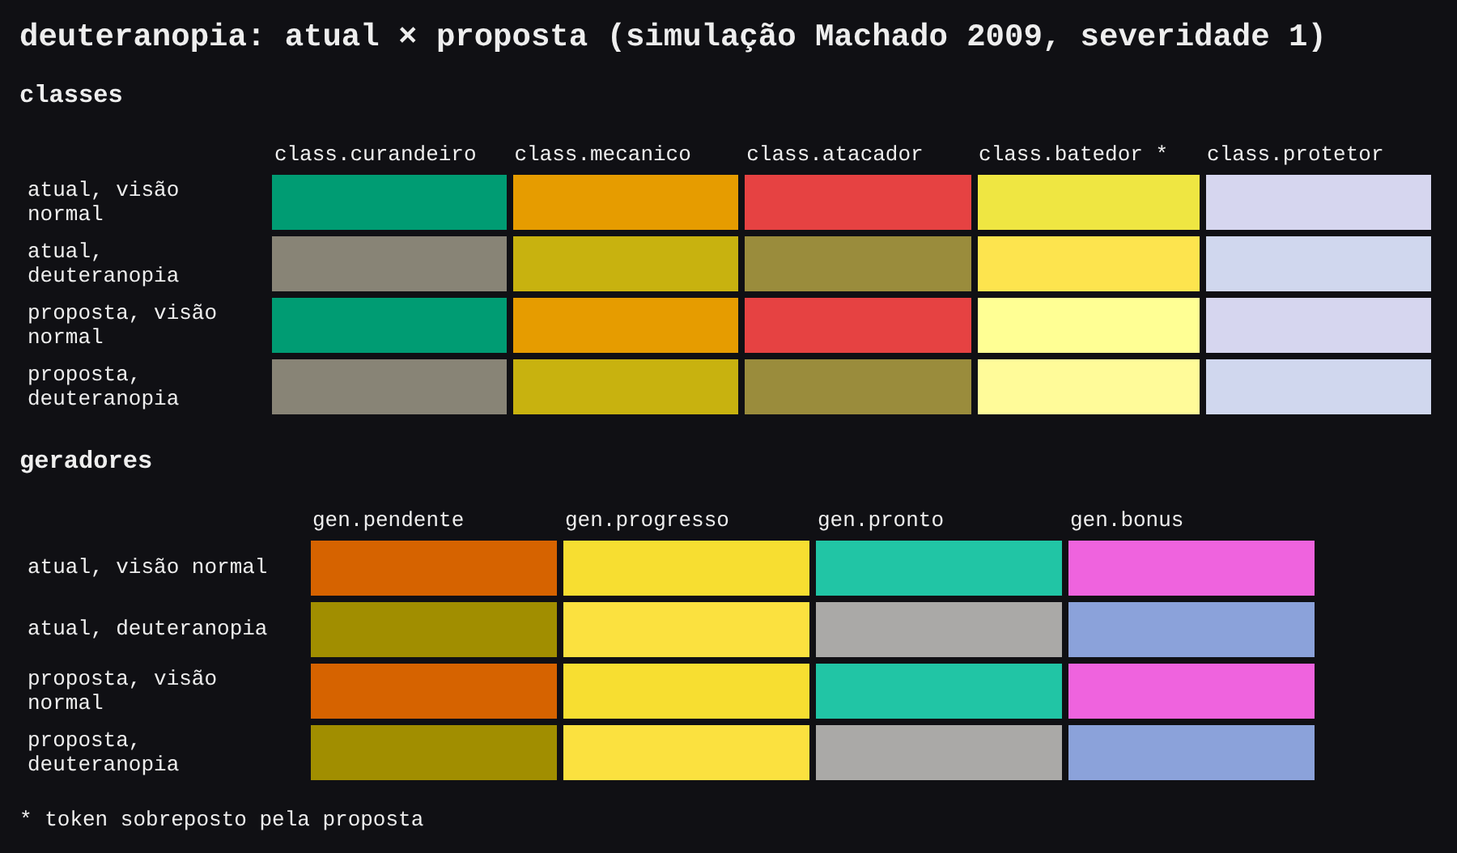
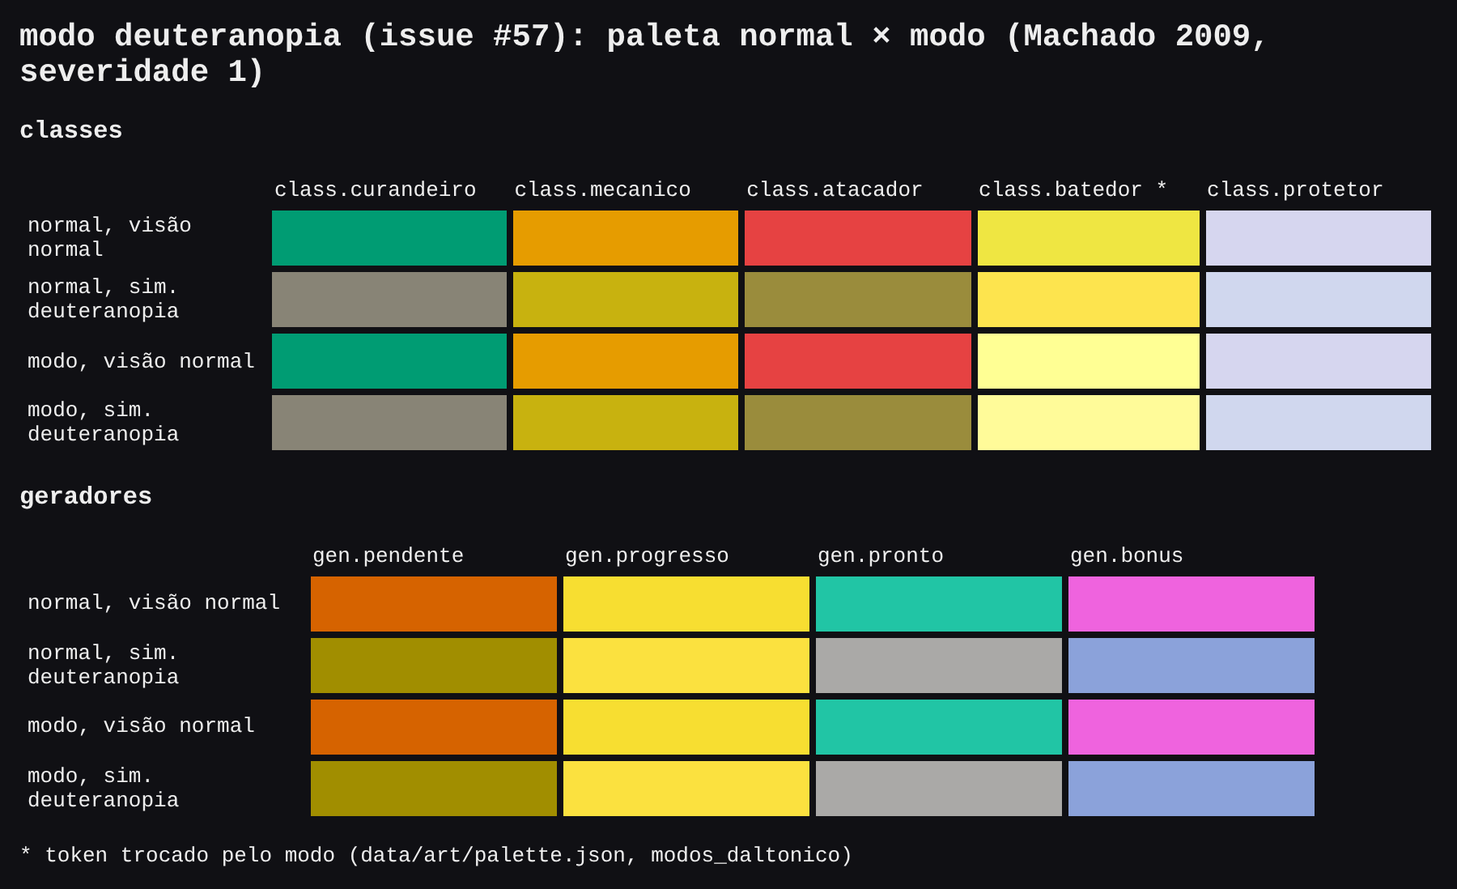
feat(arte): paletas do modo daltônico aprovadas na issue #57 (opção a)
- data/art/palette.json `modos_daltonico` (GDD v0.3 §12.4, Art Bible §5.2),
  paleta 0.5.1; a paleta normal não muda:
  - protanopia: sem troca;
  - deuteranopia: class.batedor [29,28,8] -> [31,31,18];
  - tritanopia: gen.bonus [29,12,27] -> [24,8,31].
- palette-check (normal e --mode de cada modo) verde. ΔE00: pendente x
  bônus em tritanopia 14,6 -> 20,9; pior par das classes em deuteranopia
  12,3 (Mecânico x Batedor) -> 14,3 (Mecânico x Atacador); Mecânico x
  Batedor vai a 18,5.
- Art Bible §5.2 com a tabela das 3 paletas; palette-report.md regenerado.
- Capturas em docs/art/marcos/v8: simulação regenerada (dsf 2) e capturas
  no jogo com o modo escolhido no menu de opções.
- Texto de ajuda do modo daltônico (pt-BR/en/es) sem "aguardam aprovação".
- Testes conferem as trocas aprovadas e restauram os modos no afterEach.

Closes #57

Claude-Session: https://claude.ai/code/session_01RHvzBkpAz1qJUMgUKvPxkx

diff --git a/packages/client/test/options.test.ts b/packages/client/test/options.test.ts
@@ -289,12 +289,20 @@ describe("câmera: fov e balanço", () => {
 });
 
 describe("modo daltônico: troca de tokens", () => {
-  afterEach(() => { setColorMode("normal"); PALETTE.modos_daltonico.protanopia.tokens = {}; });
-  it("as 3 entradas existem e, sem sobreposição aprovada, são iguais à paleta normal", () => {
+  const protanopia = PALETTE.modos_daltonico.protanopia.tokens;
+  afterEach(() => { setColorMode("normal"); PALETTE.modos_daltonico.protanopia.tokens = protanopia; });
+  /** paletas aprovadas na issue #57, opção (a) (GDD v0.3 §12.4; data/art/palette.json `modos_daltonico`) */
+  const APPROVED = { protanopia: {}, deuteranopia: { "class.batedor": 0xffff94 }, tritanopia: { "gen.bonus": 0xc542ff } } as const;
+  it("as 3 entradas existem; só os tokens aprovados na issue #57 mudam, os demais ficam como na paleta normal", () => {
     for (const m of ["protanopia", "deuteranopia", "tritanopia"] as const) {
       setColorMode(m);
       expect(getColorMode()).toBe(m);
-      for (const k of Object.keys(PALETTE.tokens)) { setColorMode("normal"); const n = tok(k); setColorMode(m); expect(tok(k)).toBe(n); }
+      const swaps: Record<string, number> = APPROVED[m];
+      expect(Object.keys(PALETTE.modos_daltonico[m].tokens).sort()).toEqual(Object.keys(swaps).sort());
+      for (const k of Object.keys(PALETTE.tokens)) {
+        setColorMode("normal"); const n = tok(k); setColorMode(m);
+        expect(tok(k)).toBe(swaps[k] ?? n);
+      }
     }
   });
   it("token sobreposto muda de cor só no modo; os demais ficam", () => {

diff --git a/packages/client/test/v8-apply.test.ts b/packages/client/test/v8-apply.test.ts
@@ -57,7 +57,8 @@ describe("feixe pendente com reduzir flicker (syncGenVisual)", () => {
 });
 
 describe("atlas dos personagens no modo daltônico (atlasPaints)", () => {
-  afterEach(() => { setColorMode("normal"); PALETTE.modos_daltonico.tritanopia.tokens = {}; });
+  const tritanopia = PALETTE.modos_daltonico.tritanopia.tokens;
+  afterEach(() => { setColorMode("normal"); PALETTE.modos_daltonico.tritanopia.tokens = tritanopia; });
   const size = balance.render.models.atlas;
   it("modo normal sem skin: nada a repintar; com sobreposição: o bloco do token na cor do modo", () => {
     expect(atlasPaints({ trocas: {} }, size)).toEqual([]);

diff --git a/docs/art/palette-report.md b/docs/art/palette-report.md
@@ -154,3 +154,319 @@ Menor diferença entre dois membros, em visão normal e sob cada simulação (Ma
 - grupo industrial_estado: world.industrial.tubo × gen.bonus em deuteranopia, pior pixel com ΔE00 9.7
 
 **Resultado:** todos os testes passam.
+modo daltônico protanopia: sem sobreposição (igual à paleta normal)
+# Modo daltônico: deuteranopia
+
+Quantização do passe final: 5 bits por canal (render.ps1.color_bits), dither Bayer 4×4. Portões: cor exata e média do padrão 4×4 (cor percebida); "pior pixel" é aviso.
+
+## Tokens (15 bits → hex)
+
+| Token | RGB 5 bits | Hex | Variantes após o passe final | Uso |
+| --- | --- | --- | --- | --- |
+| `ui.bg` | 2, 2, 3 | #101019 | 3 | fundo de menus |
+| `ui.panel` | 4, 4, 6 | #212131 | 2 | molduras 9-slice, painéis |
+| `ui.text` | 29, 28, 26 | #EFE6D6 | 3 | texto principal (osso) |
+| `ui.text_dim` | 19, 19, 20 | #9C9CA5 | 3 | texto secundário |
+| `ui.accent` | 31, 22, 6 | #FFB531 | 2 | foco de teclado, seleção |
+| `ui.danger` | 31, 9, 5 | #FF4A29 | 1 | alertas, vida baixa |
+| `world.fog` | 3, 4, 6 | #192131 | 3 | névoa e fundo a 30 m |
+| `world.wall` | 6, 6, 7 | #31313A | 3 | paredes (concreto frio) |
+| `world.ground` | 6, 6, 5 | #313129 | 2 | chão |
+| `class.curandeiro` | 0, 19, 14 | #009C73 | 2 | Curandeiro |
+| `class.mecanico` | 28, 19, 0 | #E69C00 | 2 | Mecânico |
+| `class.atacador` | 28, 8, 8 | #E64242 | 2 | Atacador |
+| `class.batedor` | 31, 31, 18 | #FFFF94 | 1 | Batedor (fase 4) |
+| `class.protetor` | 26, 26, 29 | #D6D6EF | 2 | Protetor (fase 4) |
+| `gen.pendente` | 26, 12, 0 | #D66300 | 2 | gerador não iniciado |
+| `gen.progresso` | 30, 27, 6 | #F7DE31 | 2 | gerador em progresso |
+| `gen.pronto` | 4, 24, 20 | #21C5A5 | 3 | gerador pronto |
+| `gen.bonus` | 29, 12, 27 | #EF63DE | 2 | gerador bônus |
+| `hunter.olhos` | 31, 4, 2 | #FF2110 | 2 | olhos emissivos e telegraph (GDD §10.4) |
+| `hunter.espectro` | 22, 23, 25 | #B5BDCE | 2 | Espectro (lançamento) |
+| `hunter.carcereiro` | 20, 11, 4 | #A55A21 | 3 | O Carcereiro |
+| `hunter.lamento` | 18, 12, 28 | #9463E6 | 3 | O Lamento |
+| `fx.ameaca` | 31, 9, 5 | #FF4A29 | 1 | seta de ameaça na borda (GDD §12.1) |
+| `fx.preso` | 31, 22, 6 | #FFB531 | 2 | marcador de aliado preso |
+| `char.pele` | 27, 22, 18 | #DEB594 | 1 | pele (rosto e mãos) dos sobreviventes |
+| `char.calca` | 8, 8, 10 | #424252 | 2 | calça e quadril (secundária: a skin troca) |
+| `char.sapato` | 3, 3, 4 | #191921 | 2 | sapatos (secundária: a skin troca) |
+| `char.metal` | 19, 19, 21 | #9C9CAD | 3 | chave inglesa, bossa do escudo |
+| `char.madeira` | 22, 16, 9 | #B5844A | 2 | haste do cajado do Curandeiro |
+| `char.lamina` | 24, 25, 27 | #C5CEDE | 3 | lâmina da espada, asas do caduceu |
+| `char.couro` | 8, 5, 3 | #422919 | 2 | guarda da espada |
+| `char.cachecol` | 8, 16, 28 | #4284E6 | 3 | cachecol do Batedor (não pode ser ui.accent: é a cor de fx.preso) |
+| `char.lanterna` | 20, 27, 31 | #A5DEFF | 2 | lanterna do capacete do Mecânico, emissiva (não pode ser ui.accent) |
+| `hunter.olhos_preparo` | 31, 29, 22 | #FFEFB5 | 2 | olhos e lampejo do caçador durante o preparo de golpe e dash (Art Bible §1.5, §4) |
+| `hunter.farrapos` | 5, 5, 7 | #29293A | 2 | farrapos e pés do Espectro |
+| `world.gerador` | 10, 10, 12 | #525263 | 3 | corpo do gerador |
+| `world.gerador_bonus` | 13, 11, 4 | #6B5A21 | 2 | corpo do gerador bônus |
+| `world.portao` | 8, 2, 2 | #421010 | 2 | portão fechado |
+| `world.gaiola` | 15, 15, 15 | #7B7B7B | 2 | grade da gaiola |
+| `fx.armadilha` | 19, 0, 0 | #9C0000 | 2 | armadilha do caçador no chão |
+| `light.ambiente` | 8, 8, 11 | #42425A | 2 | cor da luz ambiente (protótipo 0x404058) |
+| `light.jogador` | 31, 27, 19 | #FFDE9C | 2 | cor da luz que segue o jogador (protótipo 0xffe0a0) |
+| `skin.abo.a` | 16, 6, 0 | #843100 | 3 | skin Abóbora: calça |
+| `skin.abo.b` | 4, 9, 3 | #214A19 | 2 | skin Abóbora: sapatos e acessório |
+| `skin.som.a` | 3, 3, 4 | #191921 | 2 | skin Sombra: calça |
+| `skin.som.b` | 11, 11, 13 | #5A5A6B | 2 | skin Sombra: sapatos e acessório |
+| `skin.neo.a` | 2, 13, 18 | #106B94 | 2 | skin Neon Ciano: calça |
+| `skin.neo.b` | 14, 29, 31 | #73EFFF | 2 | skin Neon Ciano: sapatos e acessório |
+| `skin.car.a` | 13, 1, 4 | #6B0821 | 1 | skin Carmesim: calça |
+| `skin.car.b` | 6, 0, 2 | #310010 | 2 | skin Carmesim: sapatos e acessório |
+| `skin.our.a` | 11, 8, 2 | #5A4210 | 2 | skin Ouro: calça |
+| `skin.our.b` | 23, 21, 15 | #BDAD7B | 3 | skin Ouro: sapatos e acessório |
+| `skin.fan.a` | 18, 17, 24 | #948CC5 | 2 | skin Fantasma: calça |
+| `skin.fan.b` | 24, 22, 31 | #C5B5FF | 2 | skin Fantasma: sapatos e acessório |
+| `world.industrial.parede` | 5, 6, 8 | #293142 | 2 | D-13/D-15 (mockup A2b, secundária): chapa de aço das paredes no preset industrial do Pátio |
+| `world.industrial.chapa` | 11, 12, 14 | #5A6373 | 3 | D-13/D-15 (secundária): rebites e borda iluminada das chapas |
+| `world.industrial.junta` | 2, 2, 3 | #101019 | 3 | D-13/D-15 (secundária): juntas entre chapas e lajes, sujeira |
+| `world.industrial.chao` | 7, 7, 7 | #3A3A3A | 2 | D-13/D-15 (secundária): laje de concreto do chão |
+| `world.industrial.faixa` | 16, 9, 6 | #844A31 | 3 | D-13/D-15 (secundária): faixa de segurança âmbar na base das paredes e cor da luz assada âmbar |
+| `world.industrial.luz_fria` | 7, 9, 13 | #3A4A6B | 2 | D-13/D-15 (secundária): luz ambiente fria de fábrica |
+| `world.industrial.tubo` | 21, 25, 28 | #ADCEE6 | 3 | D-13/D-15 (secundária): luminária fluorescente (emissiva) no topo dos muros |
+
+## Contraste de texto (WCAG 2.2 1.4.3) (mínimo 4.5:1)
+
+| Elemento | Fundo | exata | média 4×4 | pior pixel | Resultado |
+| --- | --- | --- | --- | --- | --- |
+| `ui.text` | `ui.bg` | 15.28:1 | 15.28:1 | 14.39:1 | passa |
+| `ui.text` | `ui.panel` | 12.78:1 | 12.76:1 | 12.13:1 | passa |
+| `ui.text_dim` | `ui.bg` | 6.95:1 | 6.93:1 | 6.29:1 | passa |
+| `ui.text_dim` | `ui.panel` | 5.81:1 | 5.79:1 | 5.31:1 | passa |
+| `ui.accent` | `ui.panel` | 8.98:1 | 8.98:1 | 8.97:1 | passa |
+| `ui.danger` | `ui.panel` | 4.72:1 | 4.72:1 | 4.72:1 | passa |
+
+## Contraste de elementos gráficos (WCAG 2.2 1.4.11) (mínimo 3:1)
+
+| Elemento | Fundo | exata | média 4×4 | pior pixel | Resultado |
+| --- | --- | --- | --- | --- | --- |
+| `class.curandeiro` | `world.fog` | 4.61:1 | 4.58:1 | 4.13:1 | passa |
+| `class.mecanico` | `world.fog` | 7.00:1 | 6.96:1 | 6.29:1 | passa |
+| `class.atacador` | `world.fog` | 4.01:1 | 3.99:1 | 3.74:1 | passa |
+| `class.batedor` | `world.fog` | 15.33:1 | 15.33:1 | 15.06:1 | passa |
+| `class.protetor` | `world.fog` | 11.30:1 | 11.30:1 | 11.10:1 | passa |
+| `class.curandeiro` | `world.wall` | 3.68:1 | 3.68:1 | 3.33:1 | passa |
+| `class.mecanico` | `world.wall` | 5.59:1 | 5.59:1 | 5.06:1 | passa |
+| `class.atacador` | `world.wall` | 3.20:1 | 3.21:1 | 3.01:1 | passa |
+| `class.batedor` | `world.wall` | 12.25:1 | 12.32:1 | 12.12:1 | passa |
+| `class.protetor` | `world.wall` | 9.03:1 | 9.08:1 | 8.93:1 | passa |
+| `gen.pendente` | `world.fog` | 4.33:1 | 4.34:1 | 4.25:1 | passa |
+| `gen.progresso` | `world.fog` | 11.85:1 | 11.85:1 | 11.64:1 | passa |
+| `gen.pronto` | `world.fog` | 7.36:1 | 7.33:1 | 6.70:1 | passa |
+| `gen.bonus` | `world.fog` | 5.76:1 | 5.79:1 | 5.66:1 | passa |
+| `hunter.olhos` | `world.fog` | 4.20:1 | 4.20:1 | 4.13:1 | passa |
+| `hunter.espectro` | `world.fog` | 8.54:1 | 8.54:1 | 8.39:1 | passa |
+| `hunter.carcereiro` | `world.fog` | 3.13:1 | 3.13:1 | 2.89:1 | passa (aviso) |
+| `hunter.lamento` | `world.fog` | 3.98:1 | 3.99:1 | 3.84:1 | passa |
+| `fx.ameaca` | `world.fog` | 4.81:1 | 4.80:1 | 4.72:1 | passa |
+| `fx.preso` | `world.fog` | 9.14:1 | 9.13:1 | 8.97:1 | passa |
+| `char.madeira` | `world.fog` | 4.88:1 | 4.90:1 | 4.80:1 | passa |
+| `char.lamina` | `world.fog` | 10.17:1 | 10.20:1 | 9.84:1 | passa |
+| `char.cachecol` | `world.fog` | 4.35:1 | 4.37:1 | 4.21:1 | passa |
+| `char.lanterna` | `world.fog` | 11.12:1 | 11.12:1 | 10.92:1 | passa |
+| `hunter.olhos_preparo` | `world.fog` | 14.02:1 | 14.05:1 | 13.77:1 | passa |
+| `hunter.olhos_preparo` | `world.wall` | 11.20:1 | 11.30:1 | 11.08:1 | passa |
+| `class.curandeiro` | `world.industrial.parede` | 3.72:1 | 3.72:1 | 3.40:1 | passa |
+| `class.mecanico` | `world.industrial.parede` | 5.66:1 | 5.65:1 | 5.17:1 | passa |
+| `class.atacador` | `world.industrial.parede` | 3.24:1 | 3.24:1 | 3.08:1 | passa |
+| `class.batedor` | `world.industrial.parede` | 12.39:1 | 12.45:1 | 12.39:1 | passa |
+| `class.protetor` | `world.industrial.parede` | 9.13:1 | 9.18:1 | 9.13:1 | passa |
+| `hunter.olhos_preparo` | `world.industrial.parede` | 11.33:1 | 11.42:1 | 11.33:1 | passa |
+
+## Mudança de estado por brilho (Art Bible §1.5 e §4) (mínimo 3:1)
+
+| Elemento | Fundo | exata | média 4×4 | pior pixel | Resultado |
+| --- | --- | --- | --- | --- | --- |
+| `hunter.olhos_preparo` | `hunter.olhos` | 3.33:1 | 3.35:1 | 3.33:1 | passa |
+
+## Distinção entre cores do mesmo grupo (CIEDE2000, mínimo 12)
+
+Menor diferença entre dois membros, em visão normal e sob cada simulação (Machado 2009, severidade 1,0); cada célula: exata / média 4×4 / pior pixel.
+
+| Grupo | Normal | Protanopia | Deuteranopia | Tritanopia | Par mais próximo (pior caso) | Resultado |
+| --- | --- | --- | --- | --- | --- | --- |
+| classes | 28.3 / 28.4 / 28.3 | 15.8 / 15.8 / 14.1 | 14.3 / 14.3 / 12.3 | 12.5 / 12.6 / 12.5 | batedor × protetor (tritanopia, exata) | passa |
+| geradores | 37.1 / 37.2 / 36.8 | 24.8 / 25.1 / 24.8 | 20.1 / 19.4 / 14.7 | 14.6 / 14.6 / 13.4 | pendente × bonus (tritanopia, média 4×4) | passa |
+| cacadores | 26.4 / 26.3 / 24.4 | 27.5 / 27.3 / 24.4 | 26.7 / 26.5 / 23.8 | 24.8 / 24.7 / 22.1 | espectro × lamento (tritanopia, média 4×4) | passa |
+
+## Cores que não podem ser confundidas com estado nem com cor dominante (CIEDE2000, mínimo 12)
+
+Menor diferença entre dois membros, em visão normal e sob cada simulação (Machado 2009, severidade 1,0); cada célula: exata / média 4×4 / pior pixel.
+
+| Grupo | Normal | Protanopia | Deuteranopia | Tritanopia | Par mais próximo (pior caso) | Resultado |
+| --- | --- | --- | --- | --- | --- | --- |
+| acessorios | 36.3 / 36.4 / 36.1 | 34.1 / 34.1 / 33.8 | 37.4 / 37.5 / 36.9 | 33.1 / 32.8 / 28.6 | char.lanterna × olhos_preparo (tritanopia, média 4×4) | passa |
+| skins_estado | 15.9 / 15.8 / 14.4 | 12.7 / 12.8 / 12.5 | 12.9 / 12.8 / 11.5 | 12.7 / 12.8 / 12.3 | skin.our.b × fx.preso (tritanopia, exata) | passa (aviso) |
+| skins_classe | 13.3 / 13.2 / 11.3 | — | — | — | skin.fan.b × protetor (normal, média 4×4) | passa (aviso) |
+| industrial_estado | 21.4 / 21.3 / 20.3 | 12.3 / 12.2 / 10.5 | 12.2 / 12.3 / 9.7 | 13.2 / 13.3 / 12.9 | world.industrial.faixa × olhos (protanopia, média 4×4) | passa (aviso) |
+
+## Atlas dos personagens
+
+61 tokens de 64 blocos (render.models.atlas = 64 px, blocos de 8 px).
+
+**Avisos (pior pixel, informativo):** 4
+
+- contraste gráfico hunter.carcereiro sobre world.fog (pior pixel): 2.89
+- grupo skins_estado: skin.our.b × fx.ameaca em deuteranopia, pior pixel com ΔE00 11.5
+- grupo skins_classe: skin.fan.b × class.protetor em normal, pior pixel com ΔE00 11.3
+- grupo industrial_estado: world.industrial.tubo × gen.bonus em deuteranopia, pior pixel com ΔE00 9.7
+
+**Resultado:** todos os testes passam.
+# Modo daltônico: tritanopia
+
+Quantização do passe final: 5 bits por canal (render.ps1.color_bits), dither Bayer 4×4. Portões: cor exata e média do padrão 4×4 (cor percebida); "pior pixel" é aviso.
+
+## Tokens (15 bits → hex)
+
+| Token | RGB 5 bits | Hex | Variantes após o passe final | Uso |
+| --- | --- | --- | --- | --- |
+| `ui.bg` | 2, 2, 3 | #101019 | 3 | fundo de menus |
+| `ui.panel` | 4, 4, 6 | #212131 | 2 | molduras 9-slice, painéis |
+| `ui.text` | 29, 28, 26 | #EFE6D6 | 3 | texto principal (osso) |
+| `ui.text_dim` | 19, 19, 20 | #9C9CA5 | 3 | texto secundário |
+| `ui.accent` | 31, 22, 6 | #FFB531 | 2 | foco de teclado, seleção |
+| `ui.danger` | 31, 9, 5 | #FF4A29 | 1 | alertas, vida baixa |
+| `world.fog` | 3, 4, 6 | #192131 | 3 | névoa e fundo a 30 m |
+| `world.wall` | 6, 6, 7 | #31313A | 3 | paredes (concreto frio) |
+| `world.ground` | 6, 6, 5 | #313129 | 2 | chão |
+| `class.curandeiro` | 0, 19, 14 | #009C73 | 2 | Curandeiro |
+| `class.mecanico` | 28, 19, 0 | #E69C00 | 2 | Mecânico |
+| `class.atacador` | 28, 8, 8 | #E64242 | 2 | Atacador |
+| `class.batedor` | 29, 28, 8 | #EFE642 | 3 | Batedor (fase 4) |
+| `class.protetor` | 26, 26, 29 | #D6D6EF | 2 | Protetor (fase 4) |
+| `gen.pendente` | 26, 12, 0 | #D66300 | 2 | gerador não iniciado |
+| `gen.progresso` | 30, 27, 6 | #F7DE31 | 2 | gerador em progresso |
+| `gen.pronto` | 4, 24, 20 | #21C5A5 | 3 | gerador pronto |
+| `gen.bonus` | 24, 8, 31 | #C542FF | 2 | gerador bônus |
+| `hunter.olhos` | 31, 4, 2 | #FF2110 | 2 | olhos emissivos e telegraph (GDD §10.4) |
+| `hunter.espectro` | 22, 23, 25 | #B5BDCE | 2 | Espectro (lançamento) |
+| `hunter.carcereiro` | 20, 11, 4 | #A55A21 | 3 | O Carcereiro |
+| `hunter.lamento` | 18, 12, 28 | #9463E6 | 3 | O Lamento |
+| `fx.ameaca` | 31, 9, 5 | #FF4A29 | 1 | seta de ameaça na borda (GDD §12.1) |
+| `fx.preso` | 31, 22, 6 | #FFB531 | 2 | marcador de aliado preso |
+| `char.pele` | 27, 22, 18 | #DEB594 | 1 | pele (rosto e mãos) dos sobreviventes |
+| `char.calca` | 8, 8, 10 | #424252 | 2 | calça e quadril (secundária: a skin troca) |
+| `char.sapato` | 3, 3, 4 | #191921 | 2 | sapatos (secundária: a skin troca) |
+| `char.metal` | 19, 19, 21 | #9C9CAD | 3 | chave inglesa, bossa do escudo |
+| `char.madeira` | 22, 16, 9 | #B5844A | 2 | haste do cajado do Curandeiro |
+| `char.lamina` | 24, 25, 27 | #C5CEDE | 3 | lâmina da espada, asas do caduceu |
+| `char.couro` | 8, 5, 3 | #422919 | 2 | guarda da espada |
+| `char.cachecol` | 8, 16, 28 | #4284E6 | 3 | cachecol do Batedor (não pode ser ui.accent: é a cor de fx.preso) |
+| `char.lanterna` | 20, 27, 31 | #A5DEFF | 2 | lanterna do capacete do Mecânico, emissiva (não pode ser ui.accent) |
+| `hunter.olhos_preparo` | 31, 29, 22 | #FFEFB5 | 2 | olhos e lampejo do caçador durante o preparo de golpe e dash (Art Bible §1.5, §4) |
+| `hunter.farrapos` | 5, 5, 7 | #29293A | 2 | farrapos e pés do Espectro |
+| `world.gerador` | 10, 10, 12 | #525263 | 3 | corpo do gerador |
+| `world.gerador_bonus` | 13, 11, 4 | #6B5A21 | 2 | corpo do gerador bônus |
+| `world.portao` | 8, 2, 2 | #421010 | 2 | portão fechado |
+| `world.gaiola` | 15, 15, 15 | #7B7B7B | 2 | grade da gaiola |
+| `fx.armadilha` | 19, 0, 0 | #9C0000 | 2 | armadilha do caçador no chão |
+| `light.ambiente` | 8, 8, 11 | #42425A | 2 | cor da luz ambiente (protótipo 0x404058) |
+| `light.jogador` | 31, 27, 19 | #FFDE9C | 2 | cor da luz que segue o jogador (protótipo 0xffe0a0) |
+| `skin.abo.a` | 16, 6, 0 | #843100 | 3 | skin Abóbora: calça |
+| `skin.abo.b` | 4, 9, 3 | #214A19 | 2 | skin Abóbora: sapatos e acessório |
+| `skin.som.a` | 3, 3, 4 | #191921 | 2 | skin Sombra: calça |
+| `skin.som.b` | 11, 11, 13 | #5A5A6B | 2 | skin Sombra: sapatos e acessório |
+| `skin.neo.a` | 2, 13, 18 | #106B94 | 2 | skin Neon Ciano: calça |
+| `skin.neo.b` | 14, 29, 31 | #73EFFF | 2 | skin Neon Ciano: sapatos e acessório |
+| `skin.car.a` | 13, 1, 4 | #6B0821 | 1 | skin Carmesim: calça |
+| `skin.car.b` | 6, 0, 2 | #310010 | 2 | skin Carmesim: sapatos e acessório |
+| `skin.our.a` | 11, 8, 2 | #5A4210 | 2 | skin Ouro: calça |
+| `skin.our.b` | 23, 21, 15 | #BDAD7B | 3 | skin Ouro: sapatos e acessório |
+| `skin.fan.a` | 18, 17, 24 | #948CC5 | 2 | skin Fantasma: calça |
+| `skin.fan.b` | 24, 22, 31 | #C5B5FF | 2 | skin Fantasma: sapatos e acessório |
+| `world.industrial.parede` | 5, 6, 8 | #293142 | 2 | D-13/D-15 (mockup A2b, secundária): chapa de aço das paredes no preset industrial do Pátio |
+| `world.industrial.chapa` | 11, 12, 14 | #5A6373 | 3 | D-13/D-15 (secundária): rebites e borda iluminada das chapas |
+| `world.industrial.junta` | 2, 2, 3 | #101019 | 3 | D-13/D-15 (secundária): juntas entre chapas e lajes, sujeira |
+| `world.industrial.chao` | 7, 7, 7 | #3A3A3A | 2 | D-13/D-15 (secundária): laje de concreto do chão |
+| `world.industrial.faixa` | 16, 9, 6 | #844A31 | 3 | D-13/D-15 (secundária): faixa de segurança âmbar na base das paredes e cor da luz assada âmbar |
+| `world.industrial.luz_fria` | 7, 9, 13 | #3A4A6B | 2 | D-13/D-15 (secundária): luz ambiente fria de fábrica |
+| `world.industrial.tubo` | 21, 25, 28 | #ADCEE6 | 3 | D-13/D-15 (secundária): luminária fluorescente (emissiva) no topo dos muros |
+
+## Contraste de texto (WCAG 2.2 1.4.3) (mínimo 4.5:1)
+
+| Elemento | Fundo | exata | média 4×4 | pior pixel | Resultado |
+| --- | --- | --- | --- | --- | --- |
+| `ui.text` | `ui.bg` | 15.28:1 | 15.28:1 | 14.39:1 | passa |
+| `ui.text` | `ui.panel` | 12.78:1 | 12.76:1 | 12.13:1 | passa |
+| `ui.text_dim` | `ui.bg` | 6.95:1 | 6.93:1 | 6.29:1 | passa |
+| `ui.text_dim` | `ui.panel` | 5.81:1 | 5.79:1 | 5.31:1 | passa |
+| `ui.accent` | `ui.panel` | 8.98:1 | 8.98:1 | 8.97:1 | passa |
+| `ui.danger` | `ui.panel` | 4.72:1 | 4.72:1 | 4.72:1 | passa |
+
+## Contraste de elementos gráficos (WCAG 2.2 1.4.11) (mínimo 3:1)
+
+| Elemento | Fundo | exata | média 4×4 | pior pixel | Resultado |
+| --- | --- | --- | --- | --- | --- |
+| `class.curandeiro` | `world.fog` | 4.61:1 | 4.58:1 | 4.13:1 | passa |
+| `class.mecanico` | `world.fog` | 7.00:1 | 6.96:1 | 6.29:1 | passa |
+| `class.atacador` | `world.fog` | 4.01:1 | 3.99:1 | 3.74:1 | passa |
+| `class.batedor` | `world.fog` | 12.33:1 | 12.29:1 | 11.46:1 | passa |
+| `class.protetor` | `world.fog` | 11.30:1 | 11.30:1 | 11.10:1 | passa |
+| `class.curandeiro` | `world.wall` | 3.68:1 | 3.68:1 | 3.33:1 | passa |
+| `class.mecanico` | `world.wall` | 5.59:1 | 5.59:1 | 5.06:1 | passa |
+| `class.atacador` | `world.wall` | 3.20:1 | 3.21:1 | 3.01:1 | passa |
+| `class.batedor` | `world.wall` | 9.85:1 | 9.88:1 | 9.22:1 | passa |
+| `class.protetor` | `world.wall` | 9.03:1 | 9.08:1 | 8.93:1 | passa |
+| `gen.pendente` | `world.fog` | 4.33:1 | 4.34:1 | 4.25:1 | passa |
+| `gen.progresso` | `world.fog` | 11.85:1 | 11.85:1 | 11.64:1 | passa |
+| `gen.pronto` | `world.fog` | 7.36:1 | 7.33:1 | 6.70:1 | passa |
+| `gen.bonus` | `world.fog` | 4.29:1 | 4.28:1 | 4.06:1 | passa |
+| `hunter.olhos` | `world.fog` | 4.20:1 | 4.20:1 | 4.13:1 | passa |
+| `hunter.espectro` | `world.fog` | 8.54:1 | 8.54:1 | 8.39:1 | passa |
+| `hunter.carcereiro` | `world.fog` | 3.13:1 | 3.13:1 | 2.89:1 | passa (aviso) |
+| `hunter.lamento` | `world.fog` | 3.98:1 | 3.99:1 | 3.84:1 | passa |
+| `fx.ameaca` | `world.fog` | 4.81:1 | 4.80:1 | 4.72:1 | passa |
+| `fx.preso` | `world.fog` | 9.14:1 | 9.13:1 | 8.97:1 | passa |
+| `char.madeira` | `world.fog` | 4.88:1 | 4.90:1 | 4.80:1 | passa |
+| `char.lamina` | `world.fog` | 10.17:1 | 10.20:1 | 9.84:1 | passa |
+| `char.cachecol` | `world.fog` | 4.35:1 | 4.37:1 | 4.21:1 | passa |
+| `char.lanterna` | `world.fog` | 11.12:1 | 11.12:1 | 10.92:1 | passa |
+| `hunter.olhos_preparo` | `world.fog` | 14.02:1 | 14.05:1 | 13.77:1 | passa |
+| `hunter.olhos_preparo` | `world.wall` | 11.20:1 | 11.30:1 | 11.08:1 | passa |
+| `class.curandeiro` | `world.industrial.parede` | 3.72:1 | 3.72:1 | 3.40:1 | passa |
+| `class.mecanico` | `world.industrial.parede` | 5.66:1 | 5.65:1 | 5.17:1 | passa |
+| `class.atacador` | `world.industrial.parede` | 3.24:1 | 3.24:1 | 3.08:1 | passa |
+| `class.batedor` | `world.industrial.parede` | 9.97:1 | 9.99:1 | 9.43:1 | passa |
+| `class.protetor` | `world.industrial.parede` | 9.13:1 | 9.18:1 | 9.13:1 | passa |
+| `hunter.olhos_preparo` | `world.industrial.parede` | 11.33:1 | 11.42:1 | 11.33:1 | passa |
+
+## Mudança de estado por brilho (Art Bible §1.5 e §4) (mínimo 3:1)
+
+| Elemento | Fundo | exata | média 4×4 | pior pixel | Resultado |
+| --- | --- | --- | --- | --- | --- |
+| `hunter.olhos_preparo` | `hunter.olhos` | 3.33:1 | 3.35:1 | 3.33:1 | passa |
+
+## Distinção entre cores do mesmo grupo (CIEDE2000, mínimo 12)
+
+Menor diferença entre dois membros, em visão normal e sob cada simulação (Machado 2009, severidade 1,0); cada célula: exata / média 4×4 / pior pixel.
+
+| Grupo | Normal | Protanopia | Deuteranopia | Tritanopia | Par mais próximo (pior caso) | Resultado |
+| --- | --- | --- | --- | --- | --- | --- |
+| classes | 23.6 / 23.5 / 21.1 | 15.8 / 15.8 / 14.1 | 12.3 / 12.4 / 11.1 | 17.2 / 17.2 / 15.5 | mecanico × batedor (deuteranopia, exata) | passa (aviso) |
+| geradores | 37.1 / 37.2 / 36.8 | 24.8 / 25.1 / 24.8 | 22.6 / 22.5 / 21.4 | 20.9 / 20.9 / 20.2 | pendente × bonus (tritanopia, exata) | passa |
+| cacadores | 26.4 / 26.3 / 24.4 | 27.5 / 27.3 / 24.4 | 26.7 / 26.5 / 23.8 | 24.8 / 24.7 / 22.1 | espectro × lamento (tritanopia, média 4×4) | passa |
+
+## Cores que não podem ser confundidas com estado nem com cor dominante (CIEDE2000, mínimo 12)
+
+Menor diferença entre dois membros, em visão normal e sob cada simulação (Machado 2009, severidade 1,0); cada célula: exata / média 4×4 / pior pixel.
+
+| Grupo | Normal | Protanopia | Deuteranopia | Tritanopia | Par mais próximo (pior caso) | Resultado |
+| --- | --- | --- | --- | --- | --- | --- |
+| acessorios | 36.3 / 36.4 / 36.1 | 34.1 / 34.1 / 33.8 | 37.4 / 37.5 / 36.9 | 33.1 / 32.8 / 28.6 | char.lanterna × olhos_preparo (tritanopia, média 4×4) | passa |
+| skins_estado | 15.9 / 15.8 / 14.4 | 12.7 / 12.8 / 12.5 | 12.9 / 12.8 / 11.5 | 12.7 / 12.8 / 12.3 | skin.our.b × fx.preso (tritanopia, exata) | passa (aviso) |
+| skins_classe | 13.3 / 13.2 / 11.3 | — | — | — | skin.fan.b × protetor (normal, média 4×4) | passa (aviso) |
+| industrial_estado | 21.4 / 21.3 / 20.3 | 12.3 / 12.2 / 10.5 | 15.7 / 15.1 / 10.6 | 13.2 / 13.3 / 12.9 | world.industrial.faixa × olhos (protanopia, média 4×4) | passa (aviso) |
+
+## Atlas dos personagens
+
+61 tokens de 64 blocos (render.models.atlas = 64 px, blocos de 8 px).
+
+**Avisos (pior pixel, informativo):** 5
+
+- contraste gráfico hunter.carcereiro sobre world.fog (pior pixel): 2.89
+- grupo classes: class.mecanico × class.batedor em deuteranopia, pior pixel com ΔE00 11.1
+- grupo skins_estado: skin.our.b × fx.ameaca em deuteranopia, pior pixel com ΔE00 11.5
+- grupo skins_classe: skin.fan.b × class.protetor em normal, pior pixel com ΔE00 11.3
+- grupo industrial_estado: world.industrial.faixa × hunter.olhos em protanopia, pior pixel com ΔE00 10.5
+
+**Resultado:** todos os testes passam.
